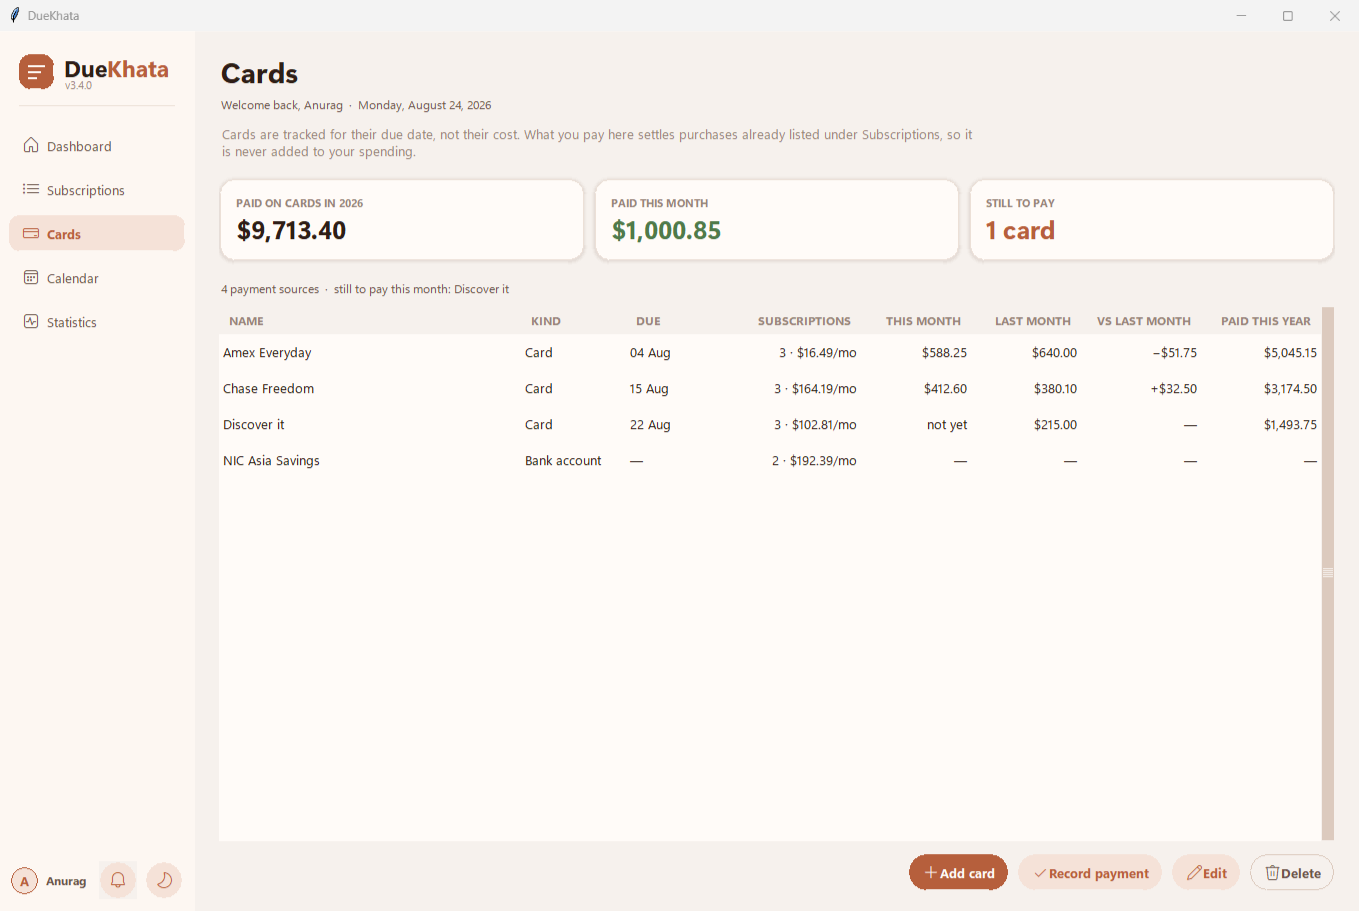
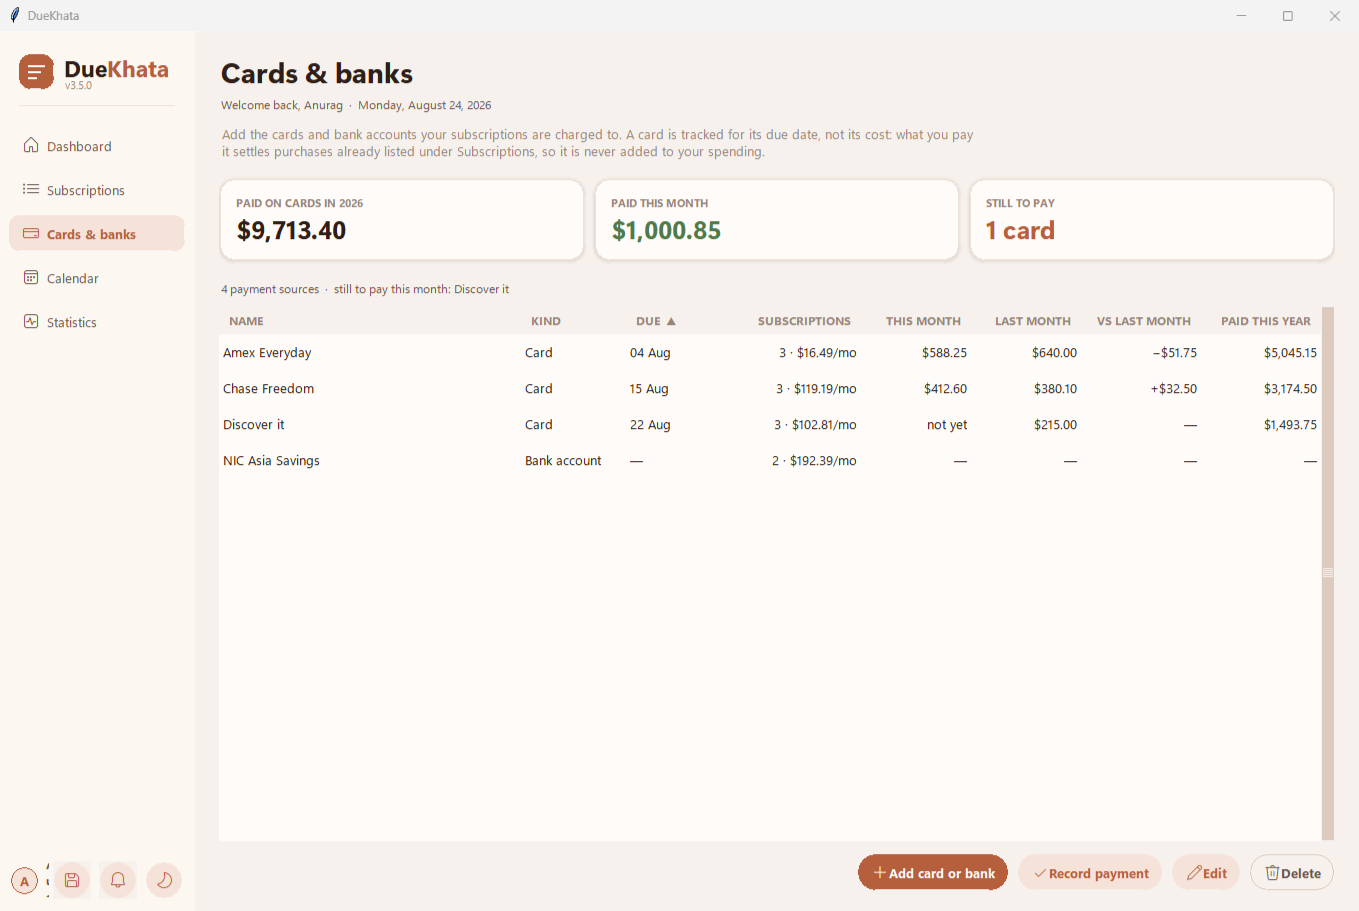
Release v3.5.0
Bump the version, record backup, pausing, sorting and the by-card chart in
the changelog, and refresh both screenshots for the renamed Cards & banks
view.

The README claimed there was no backup or export. That stopped being true
this morning, and a page telling people their data has no safety net when
it has one is worse than one that says nothing.

diff --git a/main.py b/main.py
@@ -94,7 +94,7 @@ from expense_tracker import (
 )
 
 
-APP_VERSION = "3.4.0"
+APP_VERSION = "3.5.0"
 APP_NAME = "DueKhata"
 APP_DATA_FOLDER = "DueKhata"
 

diff --git a/README.md b/README.md
@@ -30,7 +30,8 @@ Everything is stored locally. There is no account, no server, and no network acc
 
 ## Features
 
-- Five views: a dashboard, a full subscription list, credit cards, a month calendar, and statistics
+- Five views: a dashboard, a full subscription list, cards and banks, a month calendar, and
+  statistics — with spending charted by category or by which card it is charged to
 - Five billing rhythms: one-off, weekly, monthly, quarterly and yearly
 - A start date and an optional end date, so cancelled subscriptions leave your forecast
 - Both figures that matter: what bills this month, and what your subscriptions cost per month on
@@ -43,7 +44,10 @@ Everything is stored locally. There is no account, no server, and no network acc
   network access and no account
 - Payments marked as paid per month, so last month's record survives into the next
 - Editing that preserves payment history
-- Search and filter the subscription list by name, category or billing rhythm
+- Search and filter the subscription list by name, category or billing rhythm, and sort any list by
+  clicking a column heading
+- Pause a subscription while it is frozen, keeping its history, without ending or deleting it
+- Back up and restore the whole database, or export what you pay to a spreadsheet
 - Warm light and dark themes
 - A local username and password gate
 
@@ -89,7 +93,11 @@ Subscriptions and payment records live in a SQLite database created on first run
 ```
 
 Never in the application folder, so replacing the executable with a newer version leaves your data
-untouched. There is **no backup or export yet** — treat that database as the only copy.
+untouched.
+
+**Keep a copy.** The save icon in the sidebar backs the whole database up wherever you choose, and
+restores it again. A backup carries everything, including which months you marked paid; the CSV
+export beside it is for reading in a spreadsheet and deliberately does not come back in.
 
 ## Tests
 
@@ -97,8 +105,9 @@ untouched. There is **no backup or export yet** — treat that database as the o
 python -m unittest discover -s tests
 ```
 
-Fifty-seven tests covering the recurrence rules, month and category totals, the monthly run rate,
-paid tracking, editing, credit cards, and the schema migration from older databases.
+135 tests covering the recurrence rules, month and category totals, the monthly run rate, paid
+tracking, editing, pausing, payment sources, reminders, backup and restore, and the schema migrations
+from older databases. They run on every push.
 
 ## Building
 
@@ -115,7 +124,8 @@ to name the archive. The executable is written to `dist\`, and the distributable
 
 A personal project shared openly, rather than a finished product.
 
-- **No backups or export.** Everything is in one file.
+- **Backups are manual.** There is a Back up now button, but nothing runs on a schedule. If you
+  never press it, there is no copy.
 - **The login is a latch, not a lock.** Passwords are hashed with PBKDF2-HMAC-SHA256, but the
   database itself is not encrypted, and the recovery option resets the password without proving
   identity. It keeps a casual passer-by out; it does not protect the data.

diff --git a/CHANGELOG.md b/CHANGELOG.md
@@ -3,6 +3,39 @@
 What changed in each version. Newest first. Every version can be downloaded from the
 [releases page](https://github.com/paudel01anurag/duekhata-subscription-tracker/releases).
 
+## v3.5.0 — 25 August 2026
+
+Your data can leave the machine it lives on, a subscription can be paused rather than deleted, and
+the cards you have entered are finally visible as a picture.
+
+**Added**
+
+- **Backup, restore and export**, behind the save icon in the sidebar. A backup is the whole
+  database and puts everything back, including which months you marked paid. Restoring keeps what it
+  replaced, so restoring the wrong file can be undone, and a file that is not a DueKhata database is
+  refused before anything is overwritten. The CSV export beside it is for reading in a spreadsheet
+  and deliberately does not come back in.
+- **Pausing.** A frozen gym membership can be stopped without ending or deleting it: nothing bills,
+  nothing appears on the calendar, no reminder is raised, and the monthly average drops. Its history
+  is kept and one tick brings it back.
+- **Sorting by clicking a column heading**, in the subscriptions list and in Cards & banks. Click to
+  sort, click again to reverse. No new controls were added; the headings that were already there
+  became the way to sort.
+- **Spending charted by card.** Statistics can group the year by which card or bank account it is
+  charged to, as well as by category, and either can be narrowed to a single month.
+
+**Changed**
+
+- The Cards view is now **Cards & banks**, and its button **Add card or bank**. Bank accounts have
+  been supported since v3.4.0, but every label around the control that creates them said "card", so
+  nobody could tell they belonged there.
+
+**Fixed**
+
+- The share chart drew nothing when a single slice was the whole total — which is the state before
+  any subscription has been given a payment source. Tk treats an arc of a full circle as an arc of
+  nothing.
+
 ## v3.4.0 — 24 August 2026
 
 Subscriptions can say where they are charged, and DueKhata can tell you before a payment lands.
